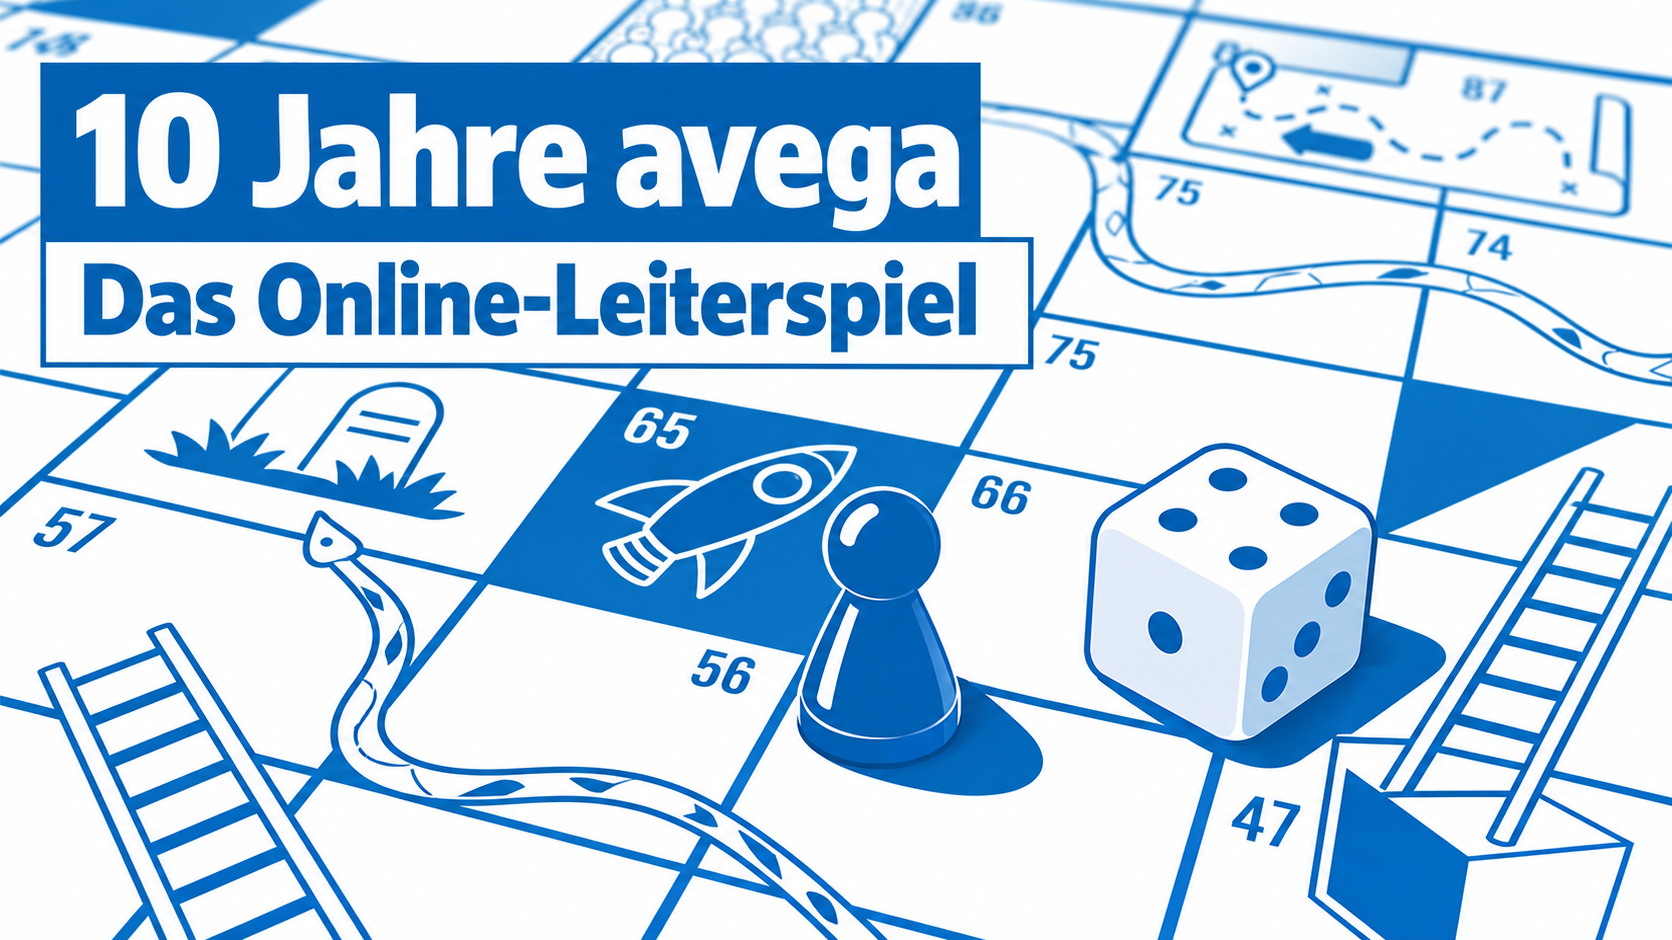
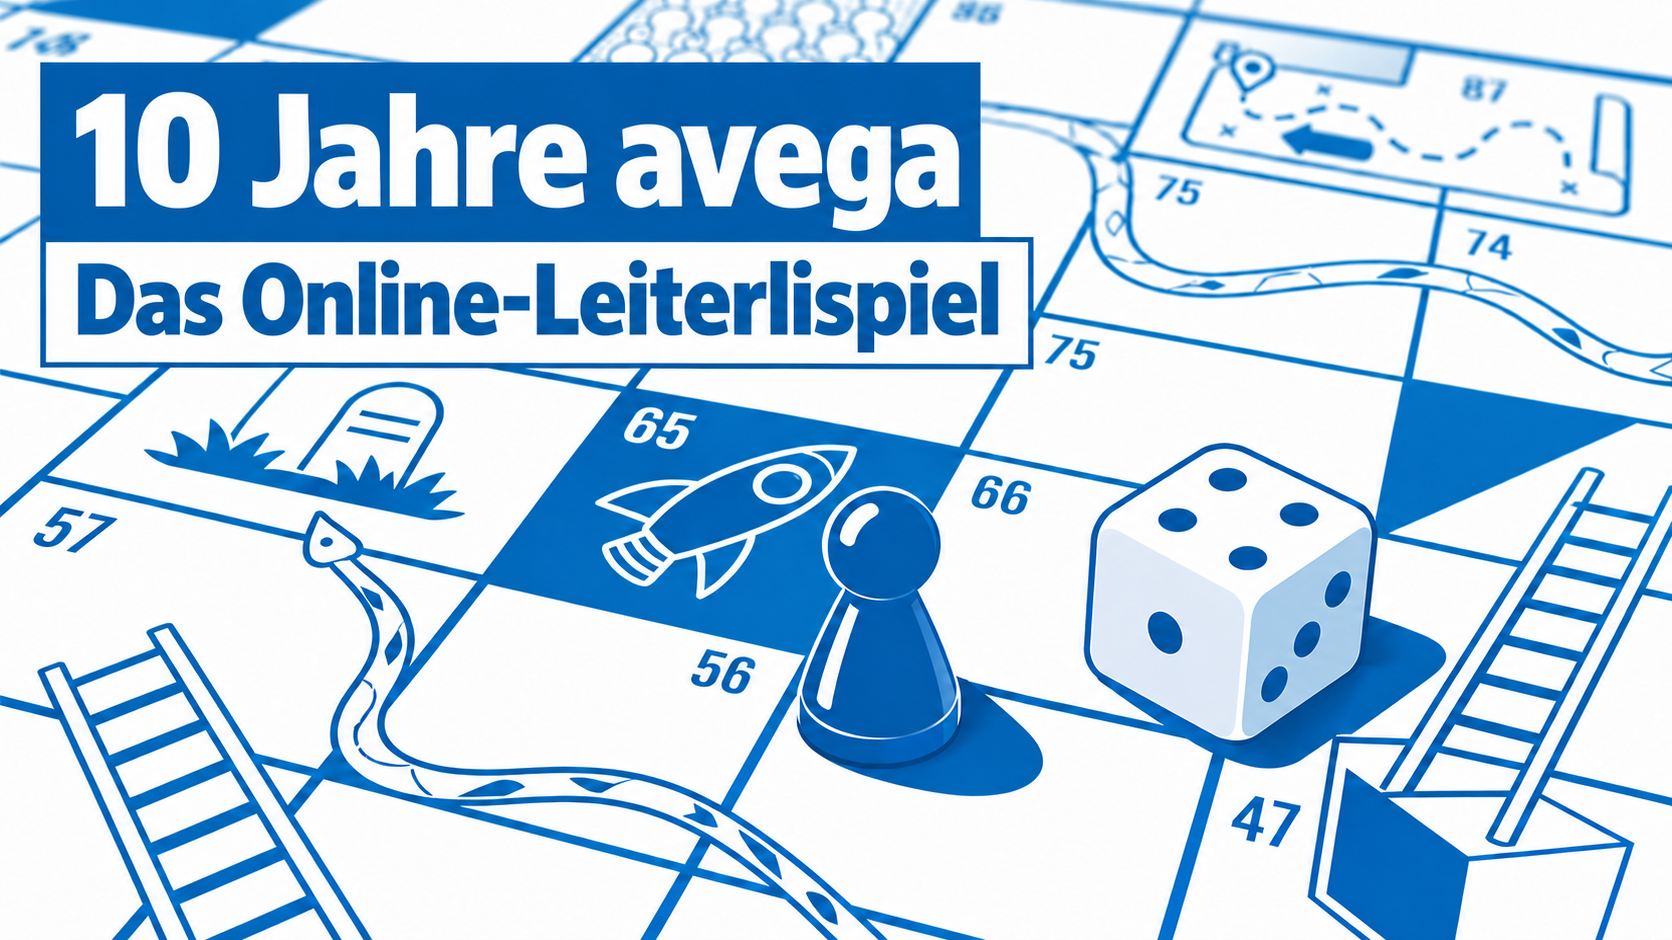
Rename game to Leiterlispiel

Changed region(s): [[0.0311, 0.2777, 0.622, 0.4011], [0.9952, 0.5245, 1.0, 0.5553]]

diff --git a/app/GameApp.tsx b/app/GameApp.tsx
@@ -178,7 +178,7 @@ function StartScreen({ onCreate, onJoin, onLocal, onRules, onResume, resumeLabel
   return <main className="start-screen">
     <header className="topbar"><Logo /><button className="text-button" onClick={onRules}>Spielregeln</button></header>
     <section className="hero">
-      <div className="hero-copy"><p className="eyebrow">10 Jahre · 100 Felder · eine Geschichte</p><h1>Das avega<br /><em>Leiterspiel.</em></h1><p className="lede">Gemeinsam würfeln, avega-Geschichten entdecken und als erste Person Feld 100 erreichen.</p>
+      <div className="hero-copy"><p className="eyebrow">10 Jahre · 100 Felder · eine Geschichte</p><h1>Das avega<br /><em>Leiterlispiel.</em></h1><p className="lede">Gemeinsam würfeln, avega-Geschichten entdecken und als erste Person Feld 100 erreichen.</p>
         {onResume && <button className="resume-game" onClick={onResume}><span><b>Angefangenes Spiel fortsetzen</b><small>{resumeLabel}</small></span><strong>→</strong></button>}
         <div className="hero-actions"><button className="primary" onClick={onCreate}>Online-Spiel erstellen <span>↗</span></button><button className="secondary" onClick={onJoin}>Online beitreten</button><button className="secondary local-play" onClick={onLocal}>Auf einem Gerät spielen</button></div>
         <div className="facts"><span>2–8 Spielende</span><span>Keine Anmeldung</span><span>Direkt im Browser</span></div>

diff --git a/app/layout.tsx b/app/layout.tsx
@@ -2,14 +2,14 @@ import type { Metadata } from "next";
 import "./globals.css";
 
 export const metadata: Metadata = {
-  title: "AVEGA Leiterspiel – 10 Jahre in 100 Feldern",
-  description: "Das AVEGA Leiterspiel als gemeinsames Online-Multiplayer-Erlebnis.",
+  title: "AVEGA Leiterlispiel – 10 Jahre in 100 Feldern",
+  description: "Das AVEGA Leiterlispiel als gemeinsames Online-Multiplayer-Erlebnis.",
   icons: {
     icon: "/assets/avega-signet.svg",
     shortcut: "/assets/avega-signet.svg",
   },
-  openGraph: { title: "10 Jahre avega – Das Online-Leiterspiel", description: "Gemeinsam würfeln und zehn Jahre AVEGA entdecken.", images: ["/og.png"] },
-  twitter: { card: "summary_large_image", title: "10 Jahre avega – Das Online-Leiterspiel", description: "Gemeinsam würfeln und zehn Jahre AVEGA entdecken.", images: ["/og.png"] },
+  openGraph: { title: "10 Jahre avega – Das Online-Leiterlispiel", description: "Gemeinsam würfeln und zehn Jahre AVEGA entdecken.", images: ["/og.png"] },
+  twitter: { card: "summary_large_image", title: "10 Jahre avega – Das Online-Leiterlispiel", description: "Gemeinsam würfeln und zehn Jahre AVEGA entdecken.", images: ["/og.png"] },
 };
 
 export default function RootLayout({
